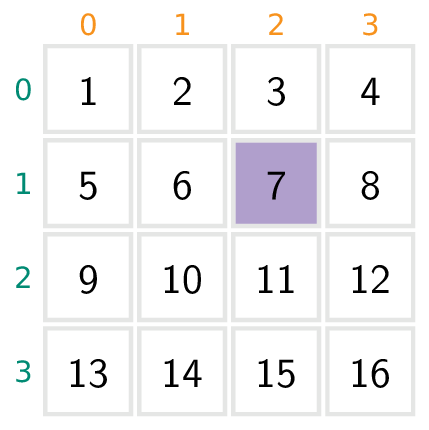
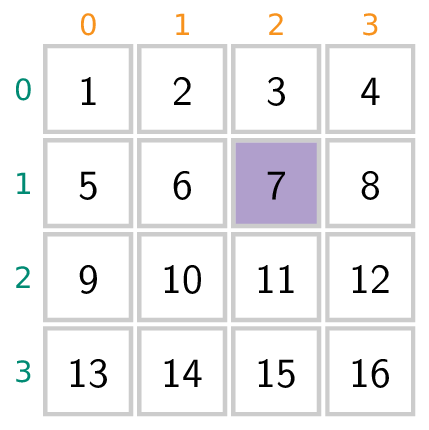
Update images and adjust node drawing opacity in coordinate square exercise

Changed region(s): [[0.0909, 0.0907, 0.9697, 0.9674]]

diff --git a/01 basissyntax/06 coordinaat in een vierkant/description/media/image1.tex b/01 basissyntax/06 coordinaat in een vierkant/description/media/image1.tex
@@ -26,7 +26,7 @@
 			%right delimiter=),
 			column sep=1pt,
 			row sep=1pt,
-			nodes={draw=black!10}, % Uncoment to see the square nodes.
+			nodes={draw=black!20}, % Uncoment to see the square nodes.
 			%nodes in empty cells,
 		},
 		Matrix/.style={

diff --git a/01 basissyntax/06 coordinaat in een vierkant/description/media/image2.tex b/01 basissyntax/06 coordinaat in een vierkant/description/media/image2.tex
@@ -26,7 +26,7 @@
 			%right delimiter=),
 			column sep=1pt,
 			row sep=1pt,
-			nodes={draw=black!10}, % Uncoment to see the square nodes.
+			nodes={draw=black!20}, % Uncoment to see the square nodes.
 			%nodes in empty cells,
 		},
 		Matrix/.style={
